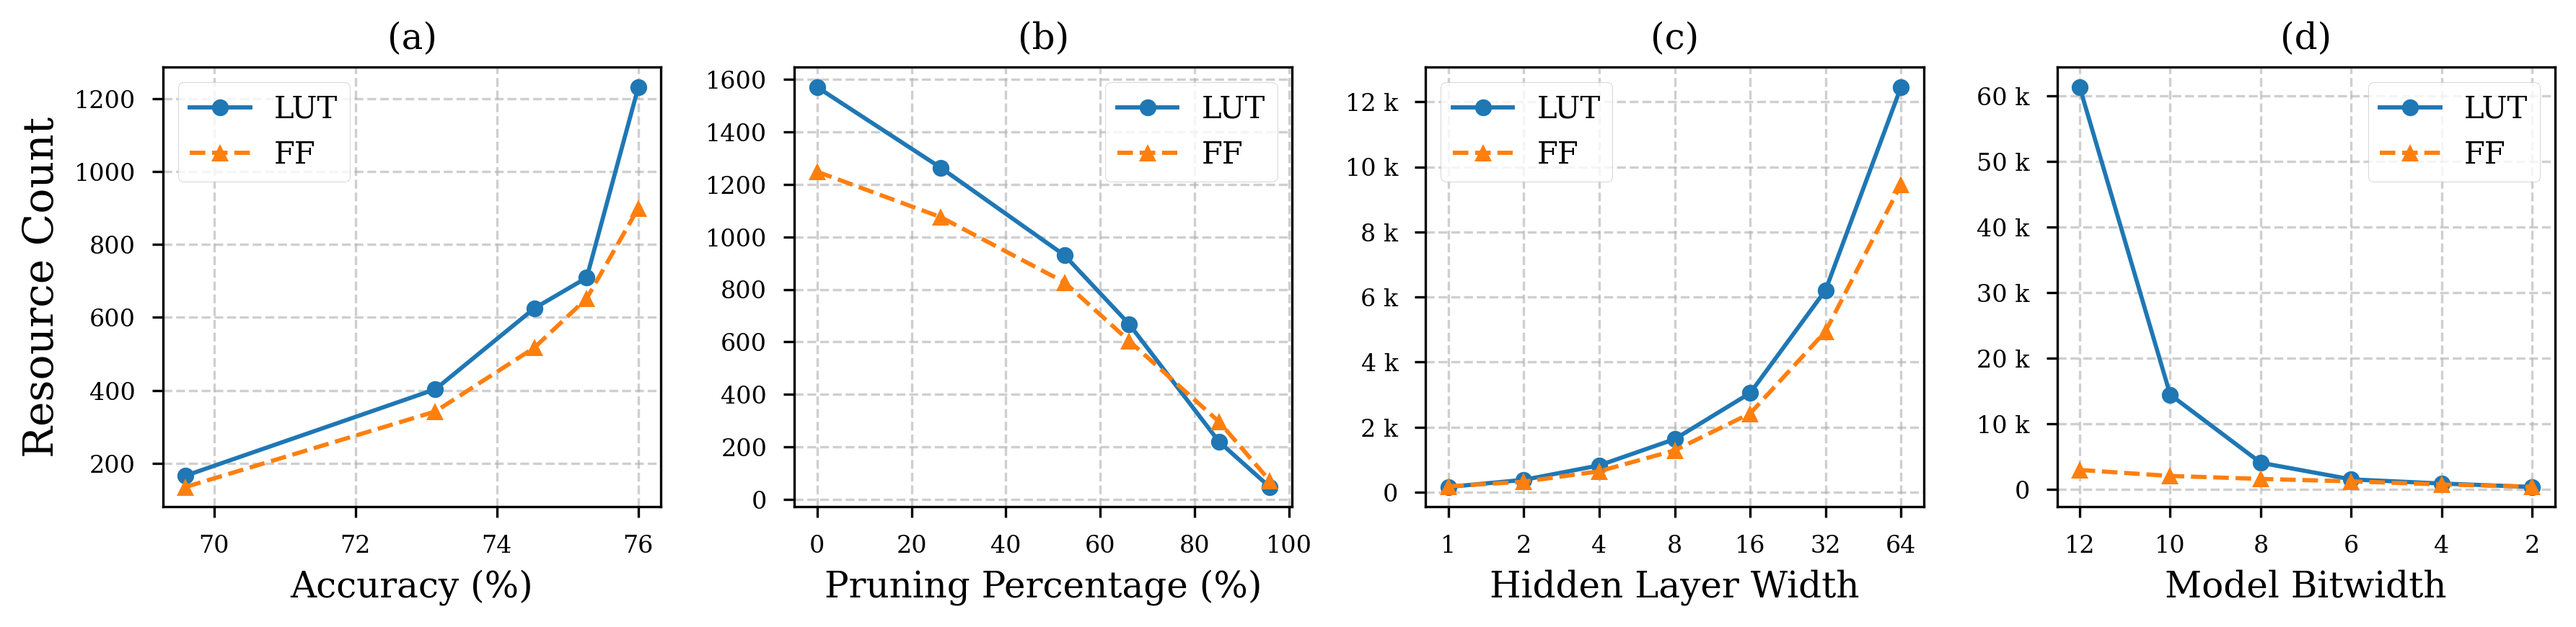
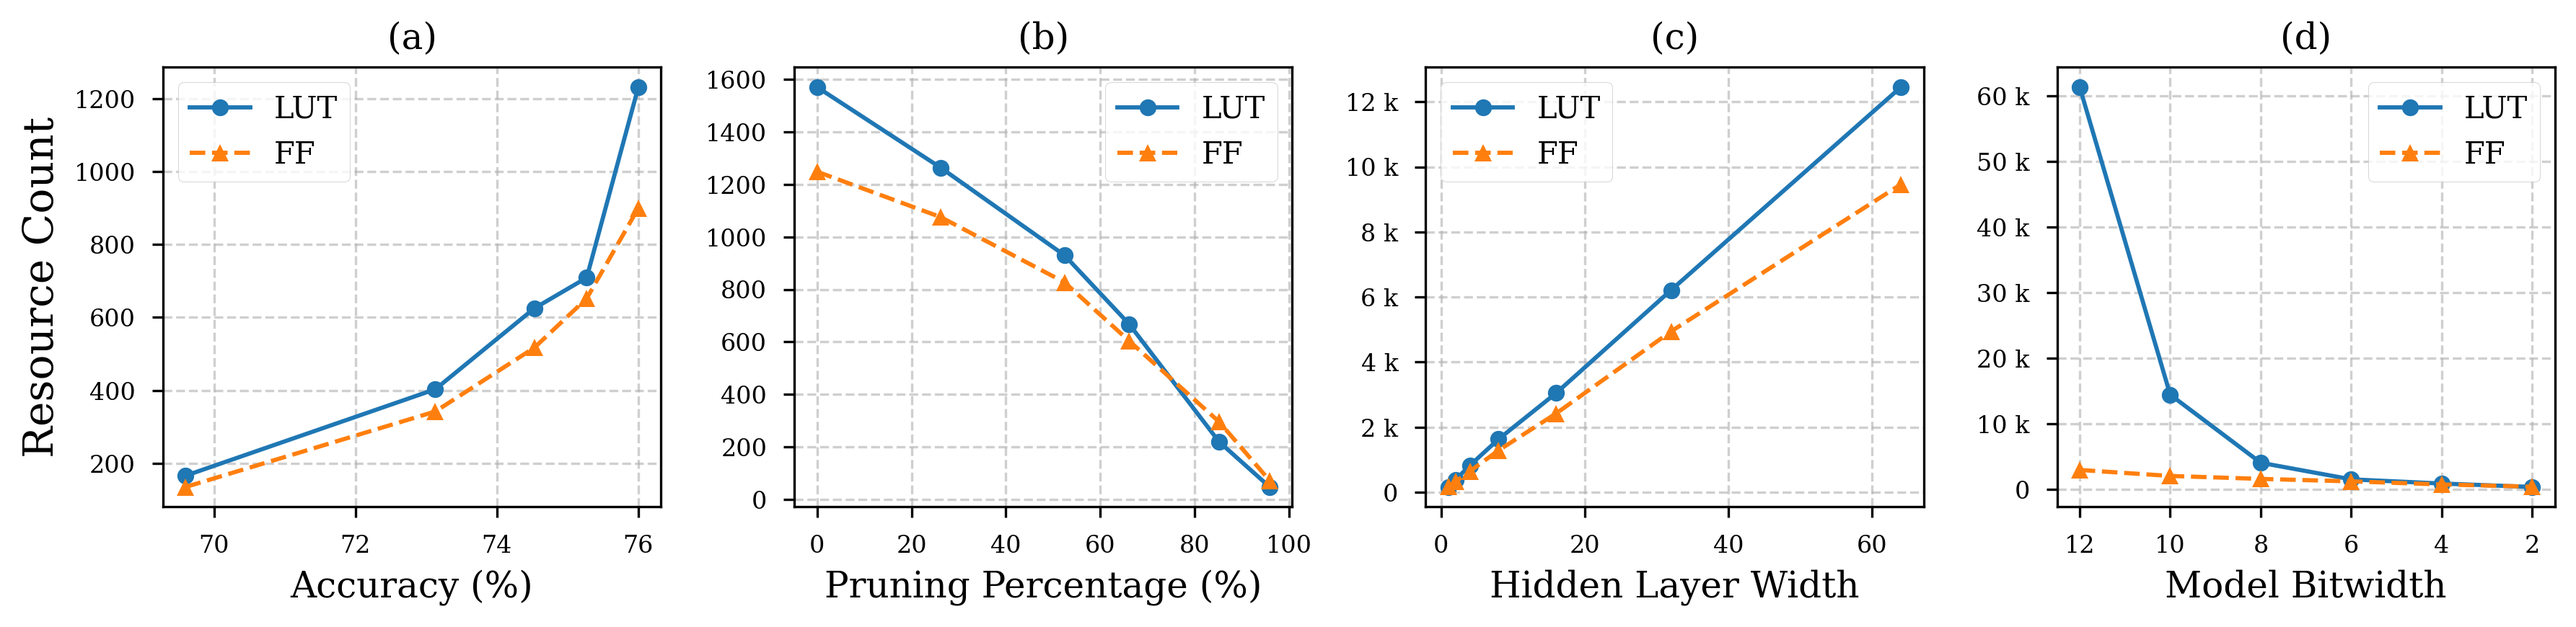
modify plots

diff --git a/benchmarks/JSC_OpenML/plot.py b/benchmarks/JSC_OpenML/plot.py
@@ -75,10 +75,8 @@ ax3.plot(LAYER_WIDTH, LUT_3, marker='o', linestyle='-', label='LUT')
 ax3.plot(LAYER_WIDTH, FF_3, marker='^', linestyle='--', label='FF')
 ax3.set_title('(c)')
 ax3.set_xlabel('Hidden Layer Width', fontsize=12)
-# Use a logarithmic scale for the x-axis since the values are powers of 2
-ax3.set_xscale('log', base=2)
 # Ensure all x-ticks are shown
-ax3.set_xticks(LAYER_WIDTH)
+# ax3.set_xticks(LAYER_WIDTH)
 ax3.get_xaxis().set_major_formatter(plt.ScalarFormatter()) # show numbers instead of scientific notation
 ax3.yaxis.set_major_formatter(mticker.EngFormatter())
 ax3.legend(fontsize=10)
